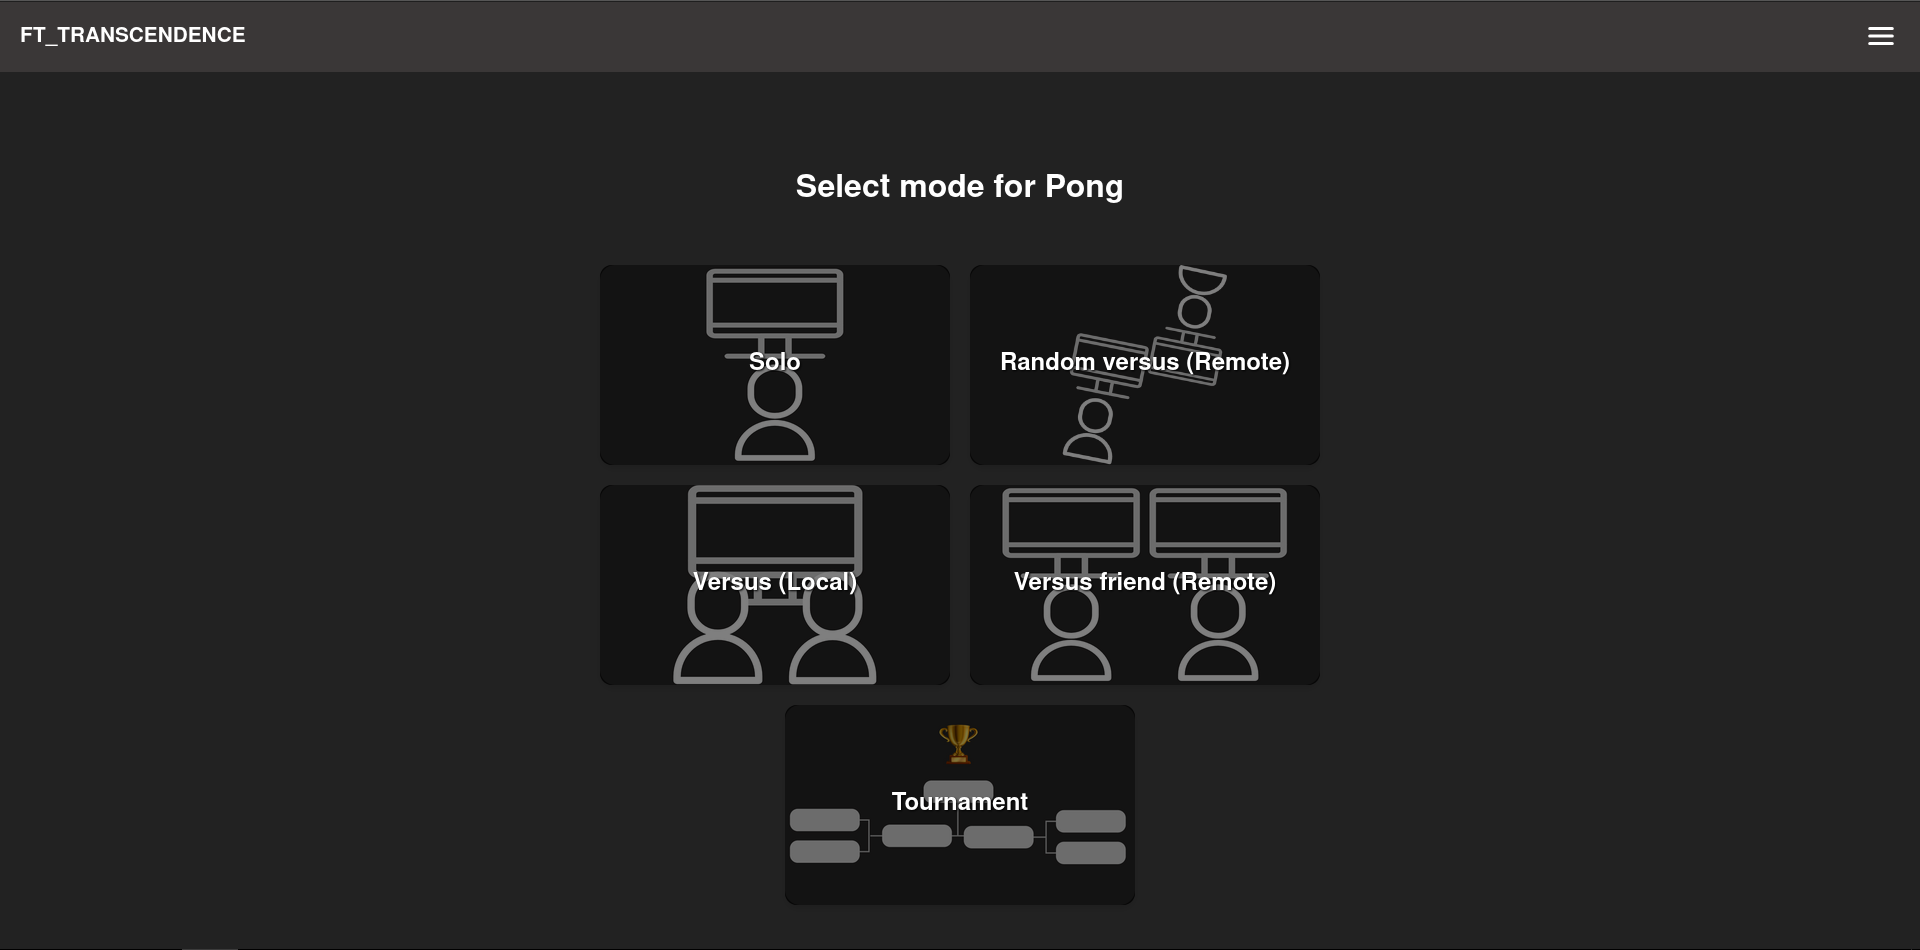
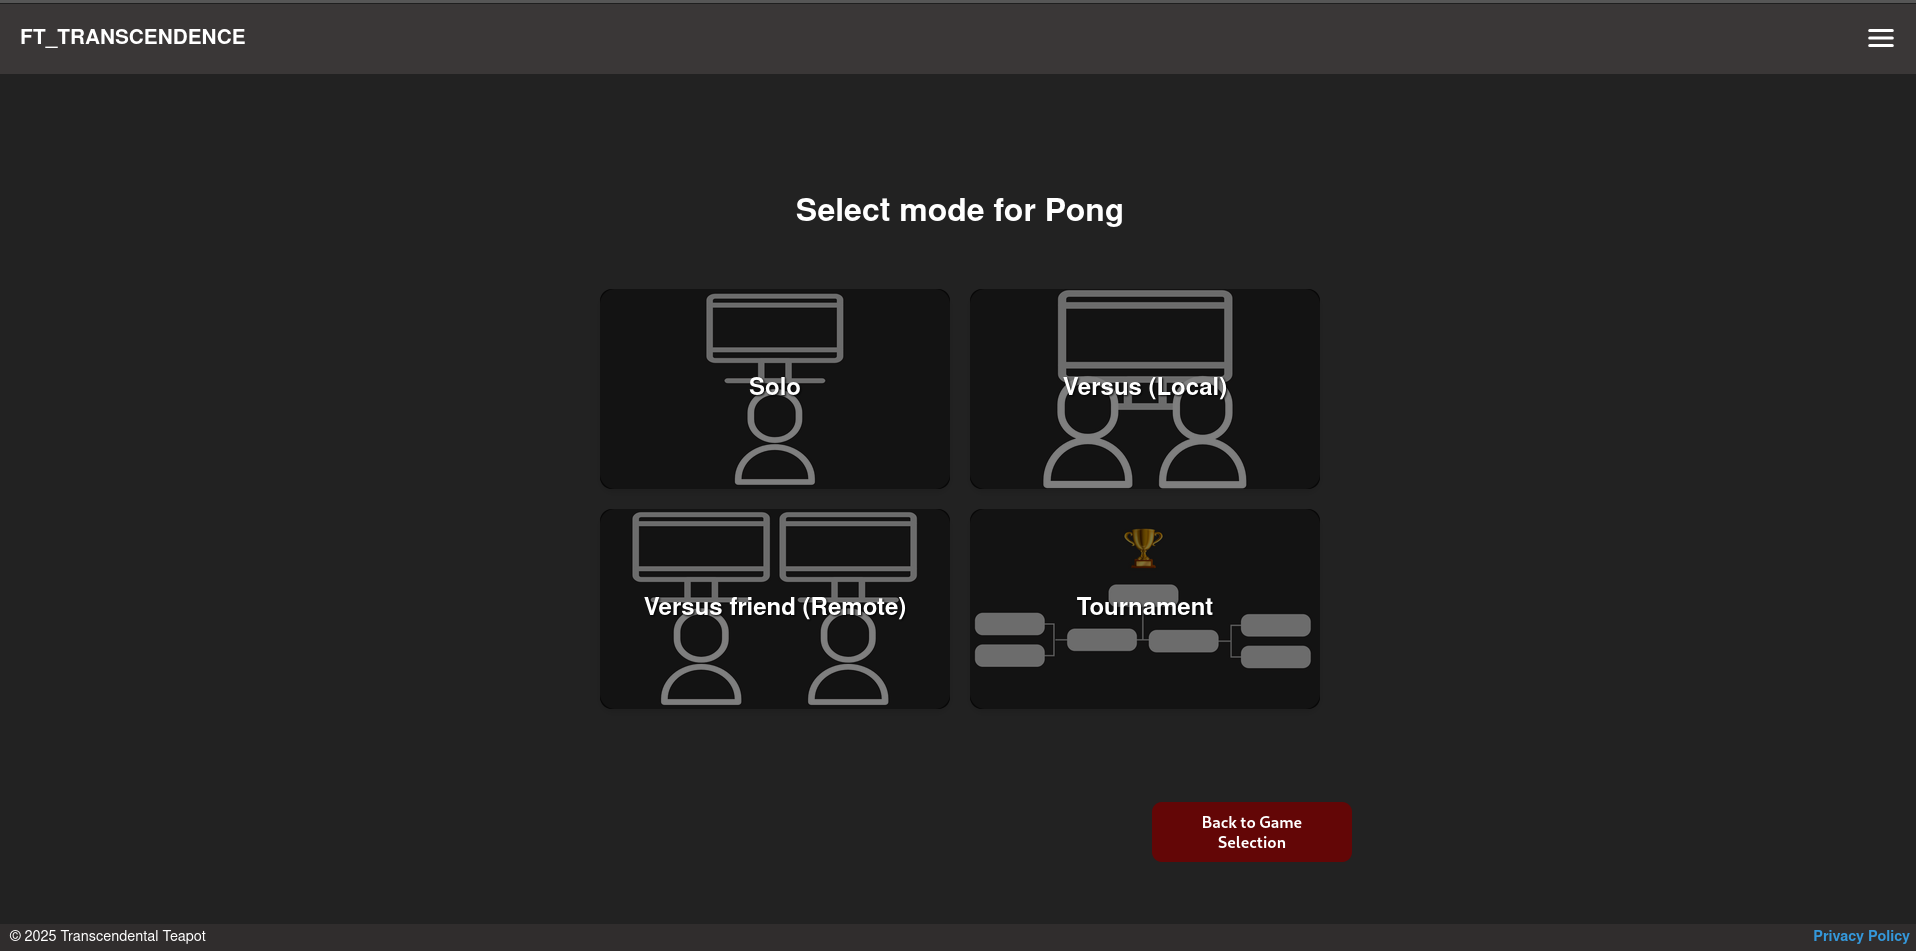
update readme

diff --git a/front-end/src/components/profile/MatchDetails.vue b/front-end/src/components/profile/MatchDetails.vue
@@ -27,26 +27,26 @@
         <div v-if="localGameType === 'ttt'">
           <div class="detail-item">
             <span class="label">{{ $t("your_nb_move") }}:</span>
-            {{ gameDetails.player1_turn }}
+            {{ this.match.player1_turn }}
           </div>
           <div class="detail-item">
             <span class="label">{{ $t("opponent_nb_move") }}:</span>
-            {{ gameDetails.player2_turn }}
+            {{ this.match.player2_turn }}
           </div>
         </div>
-        <div class="detail-item">
+        <div class="detail-item" v-if="localGameType === 'pong'">
           <span class="label">{{ $t("your_rank_begin") }}:</span>
           {{ this.match.rank_player1_begin }}
         </div>
-        <div class="detail-item">
+        <div class="detail-item" v-if="localGameType === 'pong'">
           <span class="label">{{ $t("opponent_rank_begin") }}:</span>
           {{ this.match.rank_player2_begin }}
         </div>
-        <div class="detail-item">
+        <div class="detail-item" v-if="localGameType === 'pong'">
           <span class="label">{{ $t("your_rank_change") }}:</span>
           {{ this.match.rank_player1_change }}
         </div>
-        <div class="detail-item">
+        <div class="detail-item" v-if="localGameType === 'pong'">
           <span class="label">{{ $t("opponent_rank_change") }}:</span>
           {{ this.match.rank_player2_change }}
         </div>

diff --git a/front-end/src/views/game/mode_selection.vue b/front-end/src/views/game/mode_selection.vue
@@ -78,10 +78,9 @@ export default {
 
     const cards = computed(() => [
       { image: getThemeImage('solo', currentTheme.value), name: t("solo"), mode: "solo" },
-      { image: getThemeImage('remote', currentTheme.value), name: t("multi-remote"), mode: "remote" },
+      // { image: getThemeImage('remote', currentTheme.value), name: t("multi-remote"), mode: "remote" },
       { image: getThemeImage('local', currentTheme.value), name: t("multi-local"), mode: "local" },
       { image: getThemeImage('withFriend', currentTheme.value), name: t("with-friends"), mode: "withFriend" },
-      // { image: getThemeImage('multi', currentTheme.value), name: t("more-than-2"), mode: "multiplayer" },
       { image: getThemeImage('tournament', currentTheme.value), name: t("tournament"), mode: "tournament" },
     ]);
 

diff --git a/README.md b/README.md
@@ -42,9 +42,10 @@ Additionally, it includes advanced features such as AI opponents locally and liv
 *The OTP is not mandatory, if you didn't activate it you don't have to put anything in it*
 ![login-page](./readme/login-page.png)
 ##### Profile (stat) page
-
+![stats-page](./readme/stats.png)
+![profile-phone-page](./readme/profile-phone.png)
 ###### history
-
+![history-page](./readme/history.png)
 ###### friends
 ![friend-chat-page](./readme/friends.png)
 ##### Settings (account) page
@@ -59,7 +60,7 @@ Additionally, it includes advanced features such as AI opponents locally and liv
 ##### Play page
 ![choose-game-page](./readme/choose-game.png)
 ##### Pong modes page
-*You can either play against an AI (solo), play against someone randomly, play against someone that is beside you, play against a friend in a private room remotely or in a local tournament of four people*
+*You can either play against an AI (solo), play against someone that is beside you, play against a friend in a private room remotely or in a local tournament of four people*
 ![pong-mode-page](./readme/pong-mode.png)
 ##### Play with friend
 ![play-withfriend-page](./readme/play-withfriend.png)

diff --git a/todo.md b/todo.md
@@ -246,25 +246,25 @@ TEST
         put the lang in french to see if there is things i forgot to translate
         logout ✅
         login ✅
-        cannot modify username to a username already existant ✅
-        activate the 2fa
+        cannot modify username to a username already  existant ✅
+        activate the 2fa ✅
         change the profile picture ✅
-        logout
-        login with the 2fa
-        disable the 2fa
-        logout
-        login
+        logout ✅
+        login with the 2fa ✅
+        disable the 2fa ✅
+        logout ✅
+        login ✅
         modify the username ✅
-        logout
-        login
-        modify the password
-        logout
-        login
+        logout ✅
+        login ✅
+        modify the password ✅
+        logout ✅
+        login ✅
 
         open another browser
 
-        register with 42
-        add the user you create as friend
+        register with 42 ✅
+        add the user you create as friend ✅
         block
         unblock
         remove
